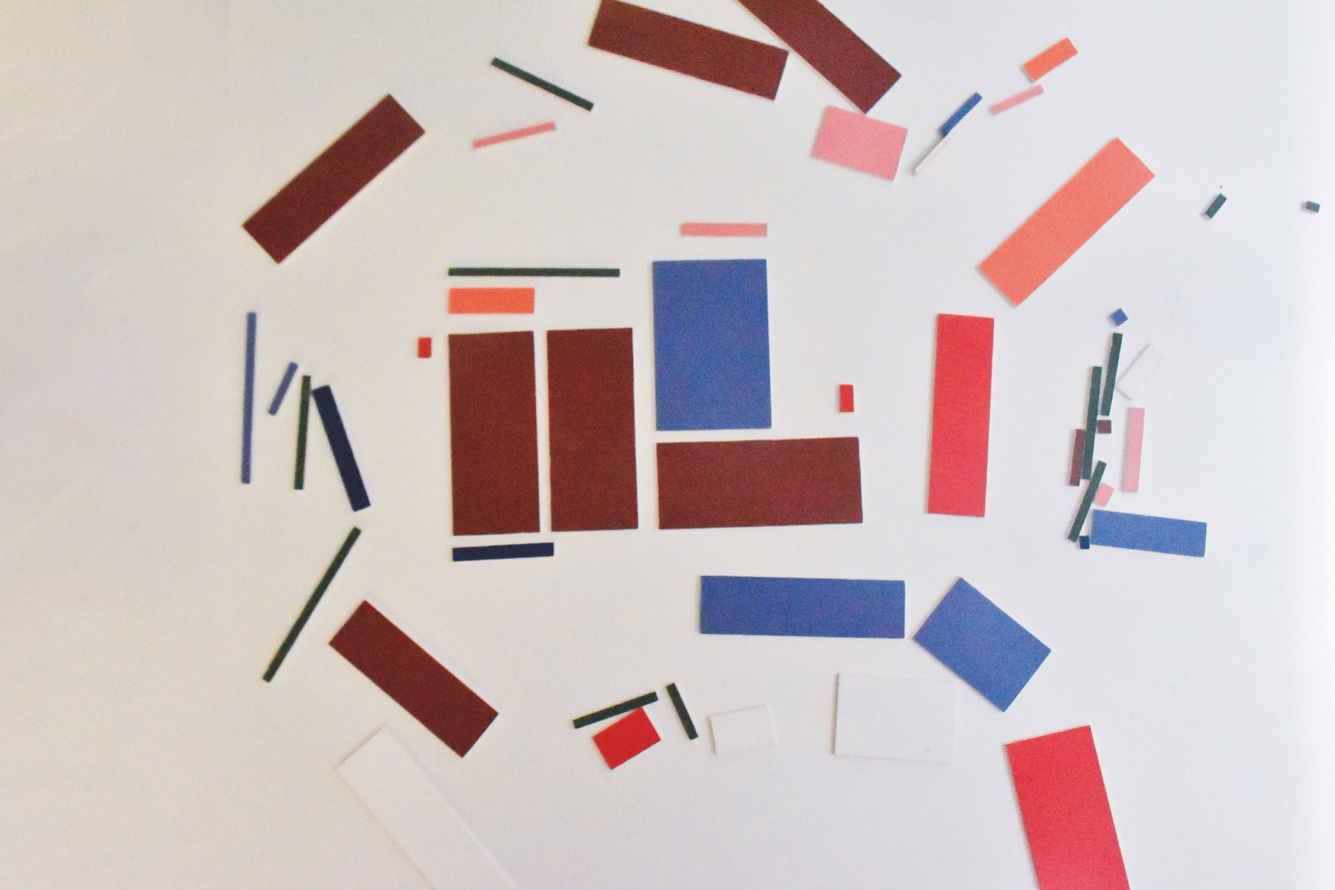
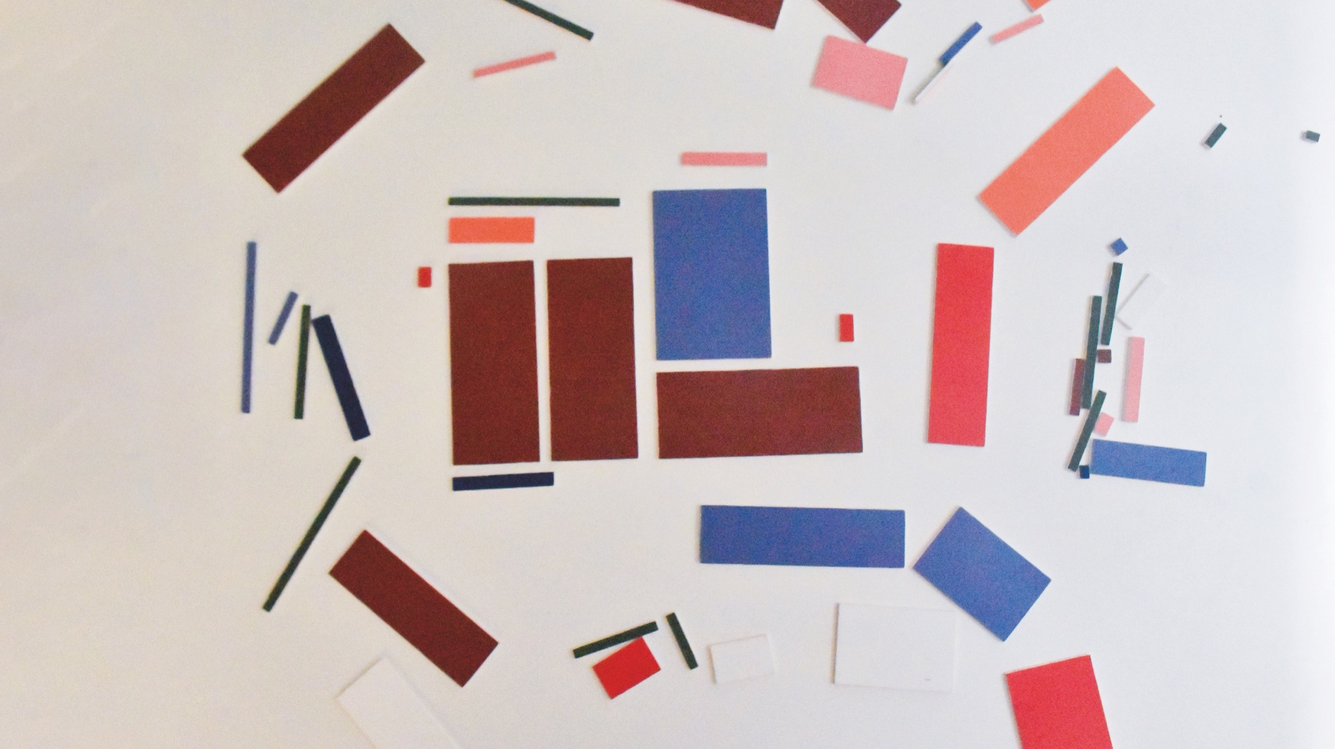
Fix image crops and update page content
- Center-crop paired images so they render at equal heights side by side
- Fix jan-biosphere-3 EXIF rotation (was displaying sideways in browsers)
- Update opening text with program history and Imane collaboration
- Remove broken links (Laura YOU, Digital Arts Archive)
- Add codespace.help link and expanded Code Space description
- Move AI museum video to correct workshop section

diff --git a/projects/2026-master-digital-context.md b/projects/2026-master-digital-context.md
@@ -8,12 +8,16 @@ thumbnail: master-digital-context-thumb.jpg
 background: "111"
 ---
 
-**In the Master Digital Context at Sint Lucas Antwerpen, we believe the tools you use shape the work you make. So why use someone else's language when you can build your own?**
+**Why use someone else's language when you can build your own?**
 
 > "The limits of my language mean the limits of my world."
 > — Ludwig Wittgenstein
 
+In 2020, together with my colleague Werner Van dermeersch, we launched the Master in the Digital Context at Sint Lucas Antwerpen. We wanted to create a program that would give students the tools to design their own digital languages; building new sandboxes, "idea spaces", that were decoupled from mainstream tools, moving beyond the idea of "using" technology and instead focus on "creating" technology. 
+
 If you work in Photoshop, you think in layers, filters, and brushes — the nouns and verbs Adobe gives you. But what if you designed your own vocabulary? In the Master Digital Context, we take a tool-first approach: you don't start by writing the story, you start by imagining the language that could contain many stories. The tool is the first step in the design. It shapes everything that follows.
+
+Since 2025, I'm collaborating with my colleague Imane Benyecif, and together we continue to evolve the program, keeping up to date with digital media in all its forms.
 
 The best way to show what this means is through the work of our students.
 
@@ -68,9 +72,7 @@ Students in the Master Digital Context look at technology critically. Technology
   </div>
 </div>
 
-Laura created [YOU](https://you.lauramae.be/), a fashion-on-demand brand. On the website, you take a personality test that determines your preferences and generates a design — a combination of Laura's style and your personality. You can then adjust the design yourself, creating something completely unique. The design is embroidered onto a garment of your choice: t-shirts, jackets, veils, shawls. These one-of-a-kind pieces are far more valuable than mass-produced clothing — nobody else has them, and they never go out of style.
-
-<video src="https://enigmeta-website.s3.amazonaws.com/media/projects/2026-master-digital-context/laura-you.mp4" autoplay loop muted playsinline></video>
+Laura created YOU, a fashion-on-demand brand. On the website, you take a personality test that determines your preferences and generates a design — a combination of Laura's style and your personality. You can then adjust the design yourself, creating something completely unique. The design is embroidered onto a garment of your choice: t-shirts, jackets, veils, shawls. These one-of-a-kind pieces are far more valuable than mass-produced clothing — nobody else has them, and they never go out of style.
 
 ### Replica of a Replica — Madina Mahomedova (2025)
 
@@ -104,6 +106,8 @@ The first semester focuses on giving you enough knowledge about the digital medi
 
 **AI museum workshop** — Students used Stable Diffusion to generate an entire museum filled with AI-generated artworks. Even the layout of the museum itself was AI-generated.
 
+<video src="https://enigmeta-website.s3.amazonaws.com/media/projects/2026-master-digital-context/workshop-ai-museum.mp4" autoplay loop muted playsinline></video>
+
 ### Personal Coaching
 
 <img src="/media/projects/master-digital-context/coaching-plenum.jpg" alt="Students presenting their work during a coaching session">
@@ -120,11 +124,11 @@ The plenum and jury follow the same structure, with transparent criteria so you'
 
 <img src="/media/projects/master-digital-context/digital-arts-archive.jpg" alt="The Digital Arts Archive — a curated collection of digital art projects, people, organizations, and books">
 
-Over the years we've built a thorough [digital arts archive](https://digitalmaster.sint-lucas.cloud/) of people, projects, organizations, books, and films — all about digital arts. It's a great place to explore when looking for inspiration, and you can search by tags when you have a specific theme in mind.
+Over the years we've built a thorough digital arts archive of people, projects, organizations, books, and films — all about digital arts. It's a great place to explore when looking for inspiration, and you can search by tags when you have a specific theme in mind.
 
 ### Code Space
 
-Code Space helps students with all technical questions — not just for the Master Digital Context, but for all students at Sint Lucas Antwerpen.
+We noticed a big interest in digital projects across the school, but often a lack of technical skills to realise them. [Code Space](https://codespace.help/) is there to fill that gap. From "simple" things like building a portfolio website in HTML, CSS, and JavaScript, to physical computing with Arduino and ESP32, to digital fabrication techniques such as laser cutting and 3D printing — Code Space helps students with all technical questions. Not just for the Master Digital Context, but for all students at Sint Lucas Antwerpen.
 
 ### RAIVE Summer School
 
